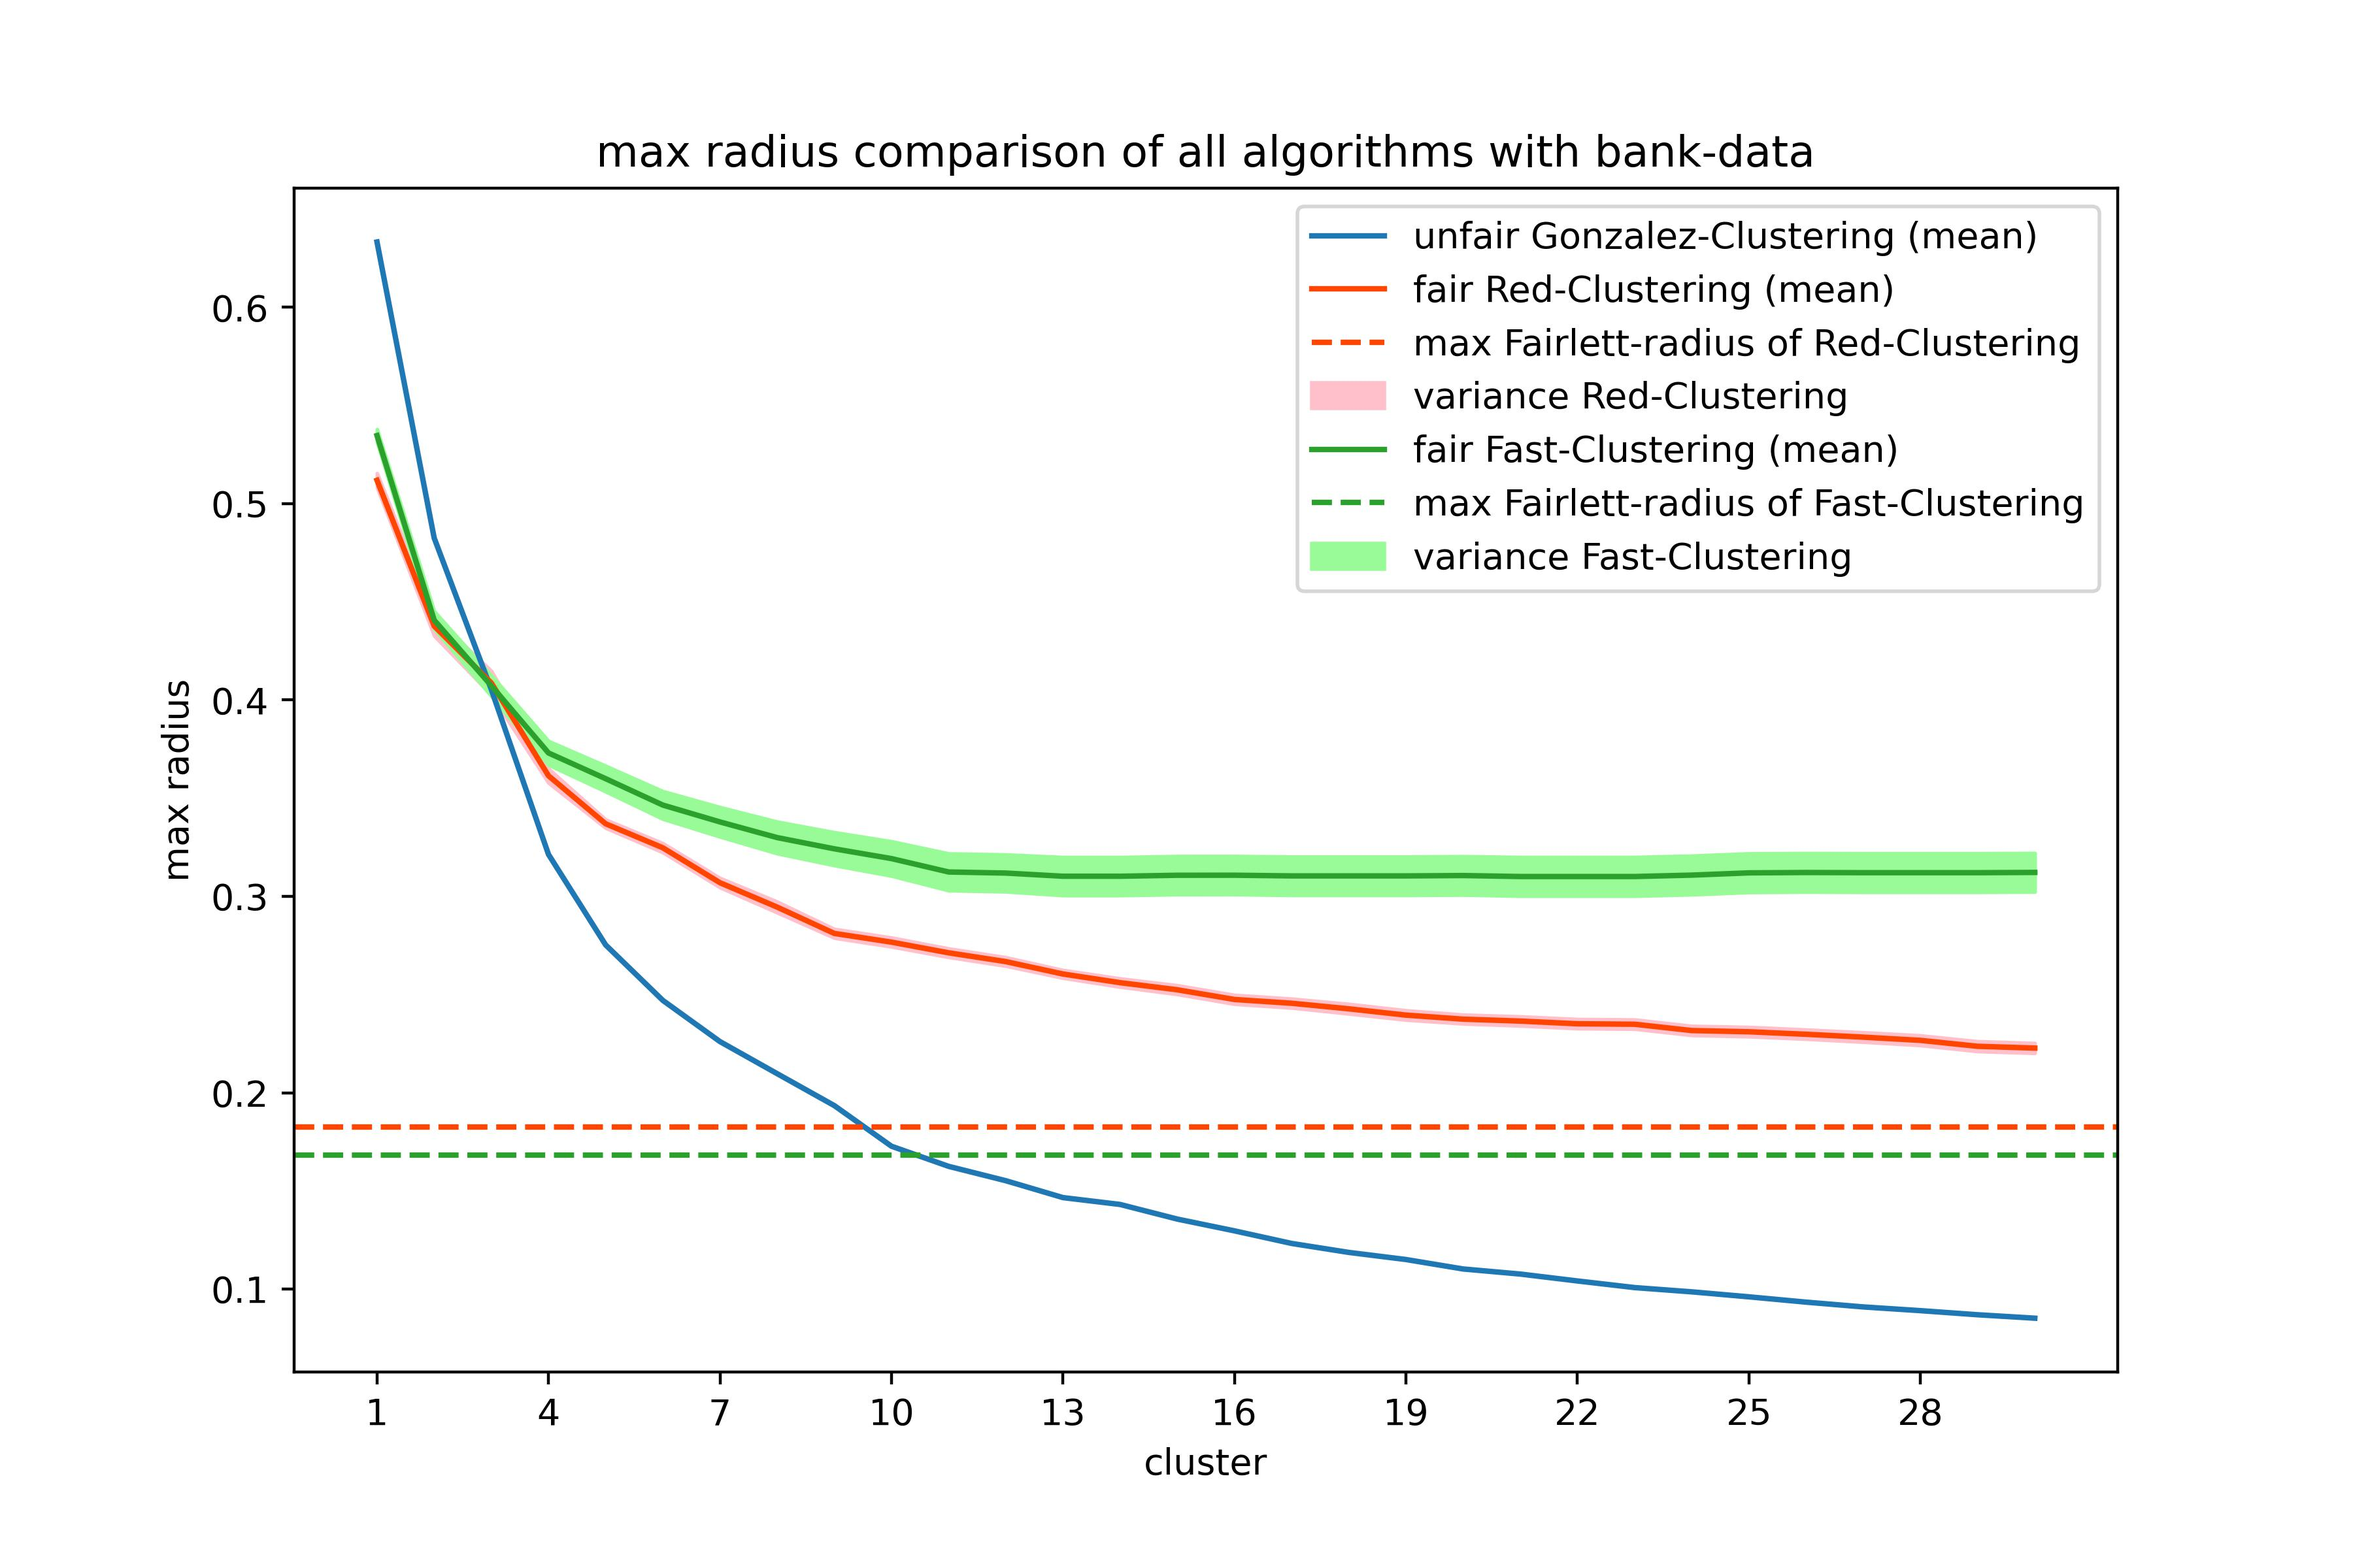
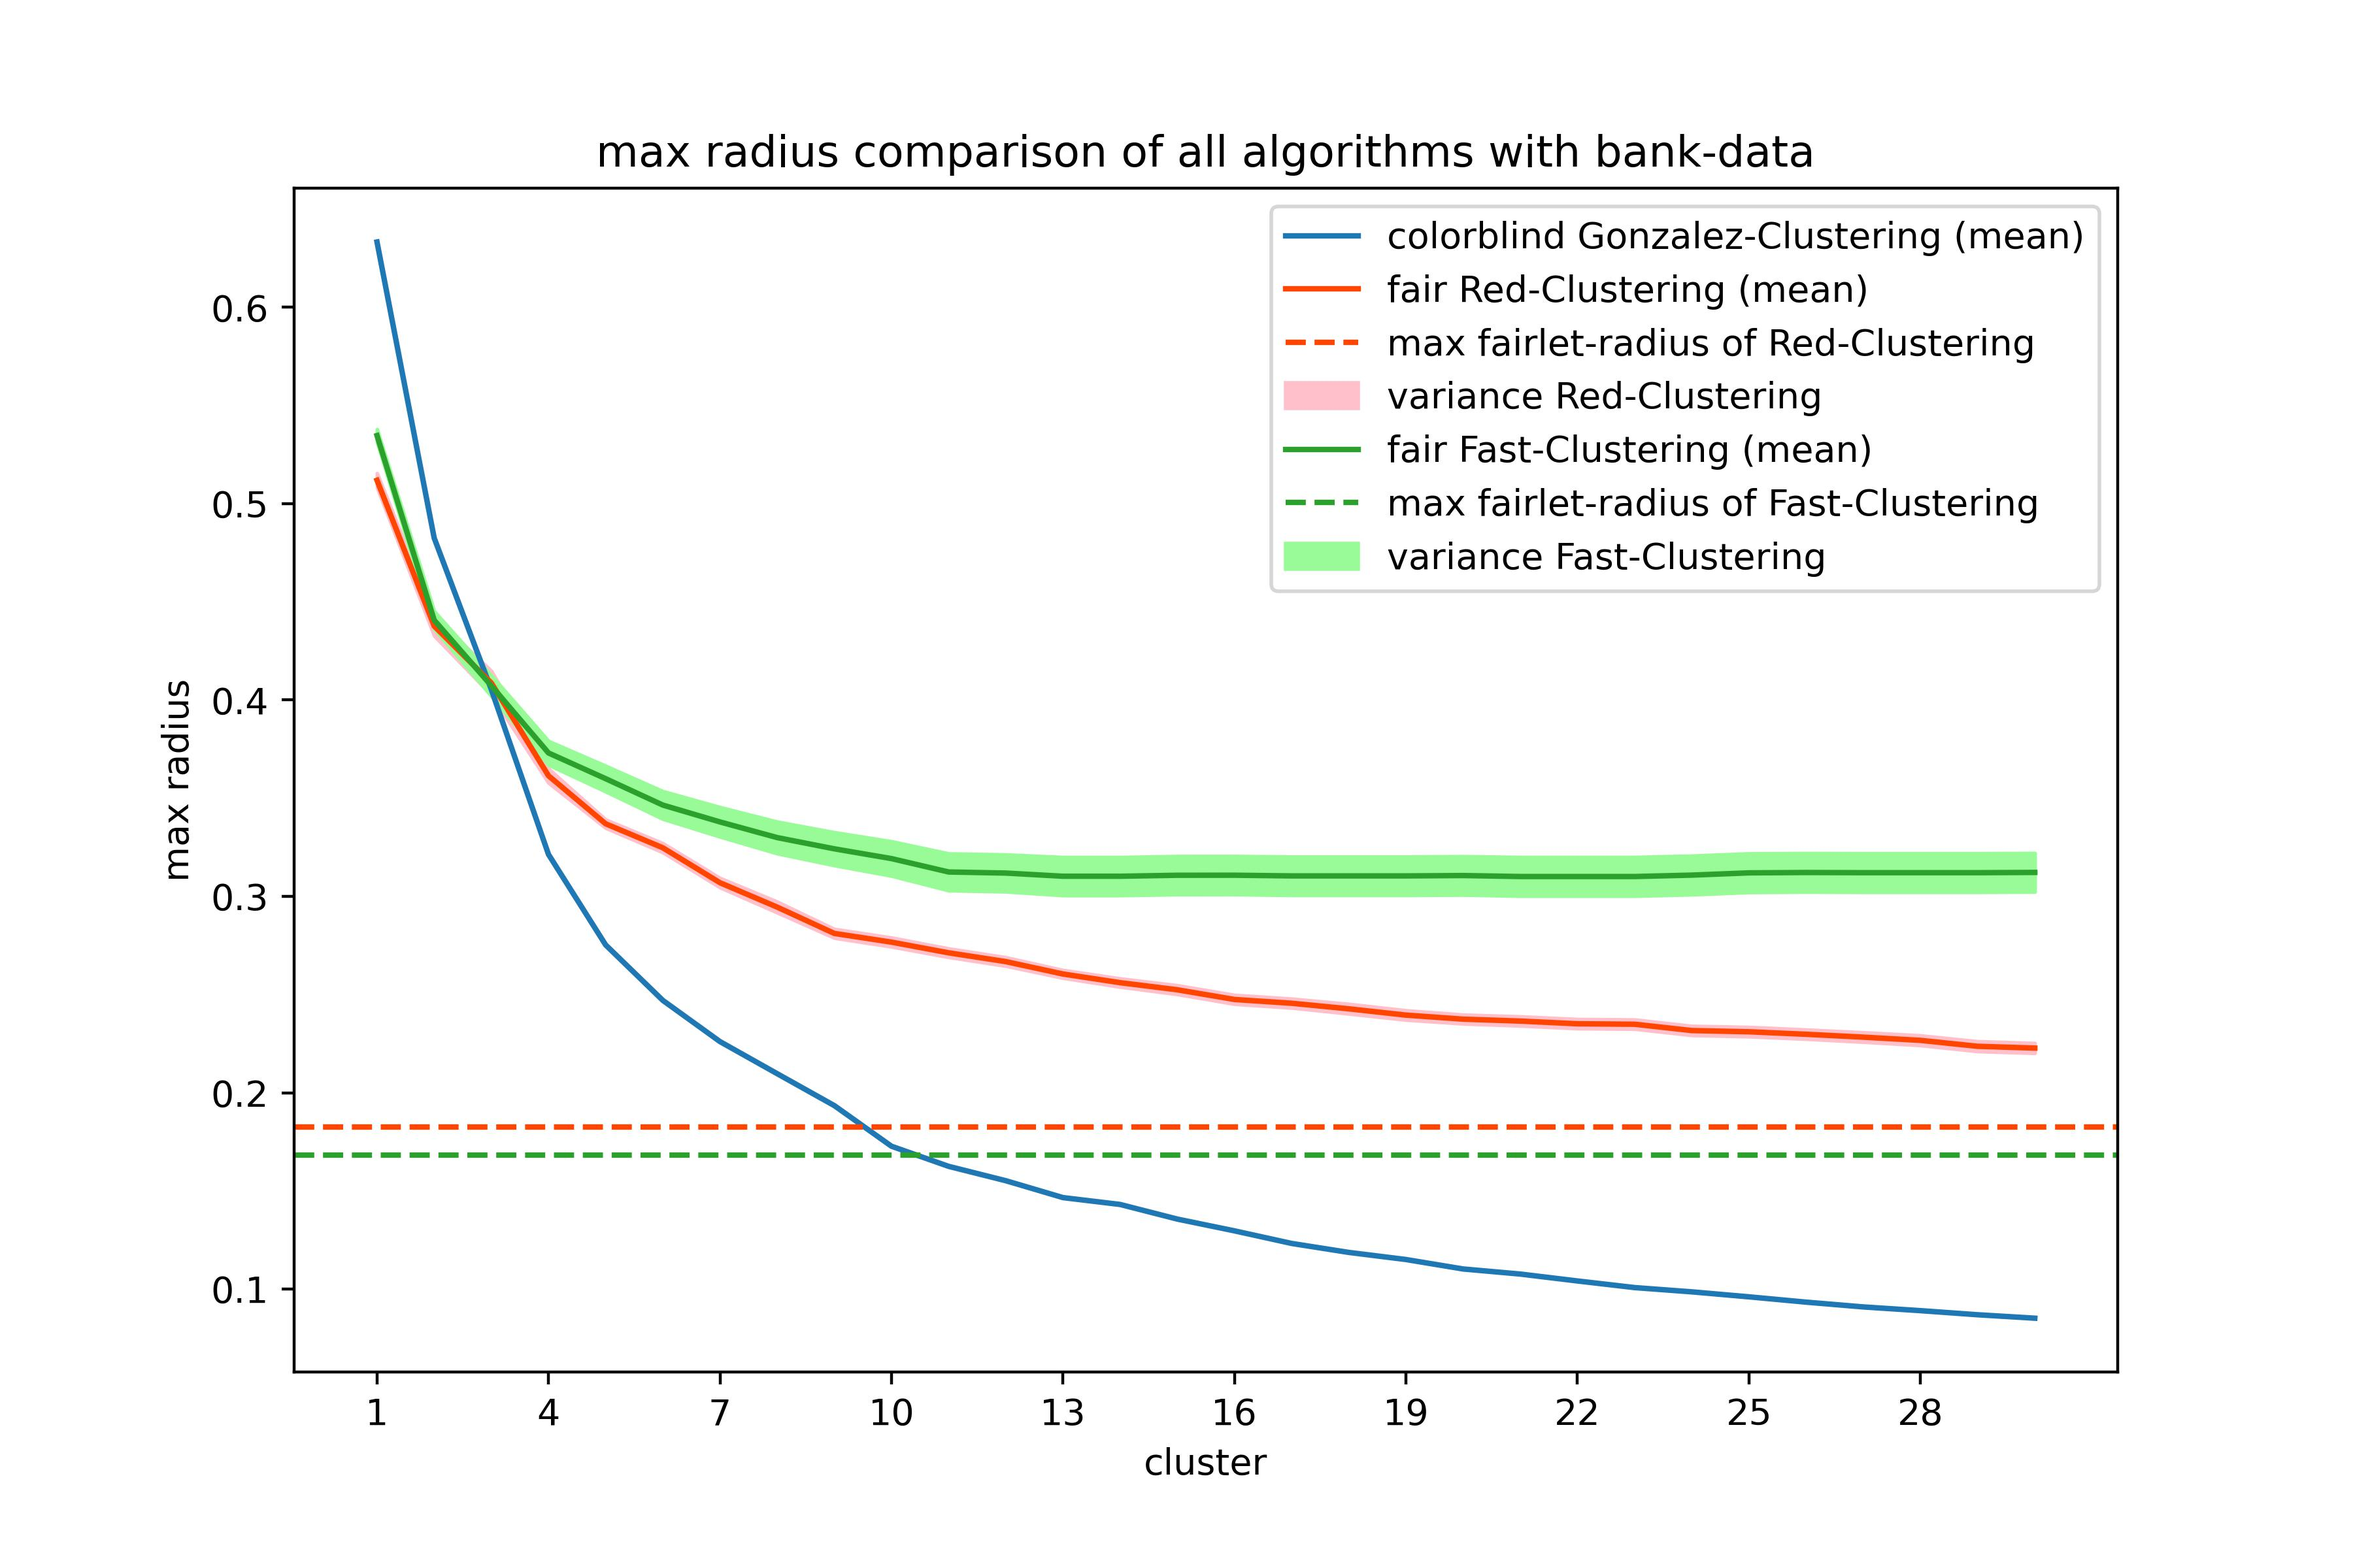
Latex - error correction in Pictures
In den Bildern waren noch ein paar Schreibfehler

Changed region(s): [[0.5289, 0.125, 0.8711, 0.375]]

diff --git a/Multicolor-Fair-Clusterin/Pythonskripte/DataAnalyzer.py b/Multicolor-Fair-Clusterin/Pythonskripte/DataAnalyzer.py
@@ -78,17 +78,17 @@ def do_analysis_of_sampleset(samplename, pictureFolder, dataFolder, axis=False, 
     
     # # # Einlesen der neuen Daten
     listOfRadiiLists = []
-    listOfFairlettRadius = []
+    listOffairletRadius = []
     for i in range(0, numOfSamples): 
         # Pfade algorithmisch zusammensetzen
         outputfolder = f"{dataFolder}{algPathAdd}/{samplename}/Sample{i}/"
         outputfile = f"{samplename}{i}"
         # Maximale Radien für jede Clustergröße holen
-        radiiList, fairlettRadius = get_radii_of_subsample(outputfolder, outputfile, maxCluster, algorithm=algorithm)
+        radiiList, fairletRadius = get_radii_of_subsample(outputfolder, outputfile, maxCluster, algorithm=algorithm)
         # radienverlauf hinszufügen
         listOfRadiiLists.append(radiiList)
-        # Fairlettgröße hinzufügen
-        listOfFairlettRadius.append(fairlettRadius)
+        # fairletgröße hinzufügen
+        listOffairletRadius.append(fairletRadius)
         
     
     
@@ -109,8 +109,8 @@ def do_analysis_of_sampleset(samplename, pictureFolder, dataFolder, axis=False, 
     
     
     
-    # Median des Fairlett-Radius bilden
-    fairRadiusMean = sum(listOfFairlettRadius) / len(listOfFairlettRadius)  
+    # Median des fairlet-Radius bilden
+    fairRadiusMean = sum(listOffairletRadius) / len(listOffairletRadius)  
     
     print(dfImportantValues.head(10))
     
@@ -123,7 +123,7 @@ def do_analysis_of_sampleset(samplename, pictureFolder, dataFolder, axis=False, 
                    f"{pictureFolder}/{algPathAdd}-{samplename}(Samples-{numOfSamples})(Cluster-{maxCluster}).jpg", 
                    f"{algPathAdd} - {samplename} k-center", algorithm=algorithm)
     else:
-        build_plot_axis(axis, dfImportantValues, fairlettRadiusMean=fairRadiusMean, algorithm=algorithm)
+        build_plot_axis(axis, dfImportantValues, fairletRadiusMean=fairRadiusMean, algorithm=algorithm)
         add_plot_variance(axis, dfImportantValues, algorithm=algorithm)
 
     return
@@ -141,9 +141,9 @@ def plot_single_dataset(dfRadius, picturePath, title, algorithm="g"):
     if(algorithm == "g"):
         # Unfaire Beschriftung
         ax.plot(dfRadius["clustersize"], dfRadius["mean"],
-                color = "brown", label = "unfair (mean)")
+                color = "brown", label = "colorblind (mean)")
         ax.plot(dfRadius["clustersize"], dfRadius[["maxValue", "minValue"]],
-                color = "orange", linestyle = "dashed", alpha = 0.5, label = "unfair (max/min)")
+                color = "orange", linestyle = "dashed", alpha = 0.5, label = "colorblind (max/min)")
     else:
         # Faire Beschriftung
         ax.plot(dfRadius["clustersize"], dfRadius["mean"],
@@ -168,7 +168,7 @@ def plot_single_dataset(dfRadius, picturePath, title, algorithm="g"):
 
 
 # # # Fügt einem gegebenen Graphen die Daten eines Algorithmuses hinzu # # #
-def build_plot_axis(axis, dfRadius, fairlettRadiusMean=0, algorithm="g"):
+def build_plot_axis(axis, dfRadius, fairletRadiusMean=0, algorithm="g"):
     # Wie weit ist der Abstand der x-Beschriftung
     intervalls = max(int(len(dfRadius)/10),1)
     
@@ -185,12 +185,12 @@ def build_plot_axis(axis, dfRadius, fairlettRadiusMean=0, algorithm="g"):
     if(algorithm == "g"):
         # Unfaire Beschriftung
         axis.plot(dfRadius["clustersize"], dfRadius["mean"],
-                color = algColor, label = f"unfair {algName} (mean)")
+                color = algColor, label = f"colorblind {algName} (mean)")
     else:
         # Faire Beschriftung
         axis.plot(dfRadius["clustersize"], dfRadius["mean"],
                  color = algColor, label = f"fair {algName} (mean)")
-        axis.axhline(y=fairlettRadiusMean, color = algColor, linestyle='--', label=f"max Fairlett-radius of {algName}")
+        axis.axhline(y=fairletRadiusMean, color = algColor, linestyle='--', label=f"max fairlet-radius of {algName}")
 
     
     axis.set_xticks(list(range(1, len(dfRadius) + 1, intervalls)))
@@ -237,14 +237,14 @@ def get_radii_of_subsample(outputfolder, outputfile, maxCluster, algorithm="g"):
         # nur die Radien auslesen mit Hilfsmethode
         if(algorithm == "g"):
             _, maxClusterRadius = Points.read_points(filename)
-            maxFairlettRadius = 0 # Nur der Fall, wenn keine Fairletts gebildet werden
+            maxfairletRadius = 0 # Nur der Fall, wenn keine fairlets gebildet werden
         else:
-            _, maxClusterRadius, maxFairlettRadius = Points.read_fair_points(filename)
+            _, maxClusterRadius, maxfairletRadius = Points.read_fair_points(filename)
         # Anfügen des einen Radius
         radiiList.append(maxClusterRadius)
 
-    #print(f"Der Fairlettradius der eingelesen wurde ist: {maxFairlettRadius}")
-    return radiiList, maxFairlettRadius
+    #print(f"Der fairletradius der eingelesen wurde ist: {maxfairletRadius}")
+    return radiiList, maxfairletRadius
 
 
 
@@ -325,7 +325,7 @@ def analyze_times(timestamps, picturePath, labels, algorithm="g"):
 
     ax.set_xticks(list(range(0, len(timestamps[0]) + 1, intervalls)))
     ax.set_title(f"CPU times of {algorithmName} excecution")
-    ax.set_xlabel("cample")
+    ax.set_xlabel("sample")
     ax.set_ylabel("time in ms")
     ax.legend(loc='upper right')
     plt.savefig(picturePath + f"/Timinganalysis {algorithmName}.jpg", dpi=400)
@@ -407,17 +407,17 @@ def fast_anchor_maxline_analysis(samplename, pictureFolder, dataFolder, numOfSam
     
     # # # Einlesen der neuen Daten
     listOfRadiiLists = []
-    listOfFairlettsizes = []
+    listOffairletsizes = []
     for i in range(0, numOfSamples): 
         # Pfade algorithmisch zusammensetzen
         outputfolder = f"{dataFolder}{algPathAdd}/{samplename}/Sample{i}"
         outputfile = f"{samplename}{i}"
         # Maximale Radien für jede Clustergröße holen
-        radiiList, fairlettRadius = get_radii_of_subsample(outputfolder, outputfile, maxCluster, algorithm="f")
+        radiiList, fairletRadius = get_radii_of_subsample(outputfolder, outputfile, maxCluster, algorithm="f")
         # radienverlauf hinszufügen
         listOfRadiiLists.append(radiiList)
-        # fairlettRadius hinzufügen
-        listOfFairlettsizes.append(fairlettRadius)
+        # fairletRadius hinzufügen
+        listOffairletsizes.append(fairletRadius)
         
     
     
@@ -439,13 +439,13 @@ def fast_anchor_maxline_analysis(samplename, pictureFolder, dataFolder, numOfSam
     os.makedirs(pictureFolder, exist_ok=True) 
     print_radii(dfImportantValues,  
                 f"{pictureFolder}/Fast-Anchor Edge-Case.jpg", 
-                "Fast-Clustering census Edge-Case Example", algorithm="f", fairlettRadius=np.mean(fairlettRadius))
+                "fast-clustering census edge-case example", algorithm="f", fairletRadius=np.mean(fairletRadius))
 
     return
 
 
 # # # Plot für einzelnen Algorithmus # # #
-def print_radii(dfRadius, picturePath, title, algorithm="f", fairlettRadius=-1):
+def print_radii(dfRadius, picturePath, title, algorithm="f", fairletRadius=-1):
     
     # Zusammensetzen der Beschriftung
     algorithmName = "Gonzalez-Algorithm"
@@ -464,9 +464,9 @@ def print_radii(dfRadius, picturePath, title, algorithm="f", fairlettRadius=-1):
     if(algorithm == "g"):
         # Unfaire Beschriftung
         ax.plot(dfRadius["clustersize"], dfRadius["mean"],
-                color = "brown", label = "unfair (mean)")
+                color = "brown", label = "colorblind (mean)")
         ax.plot(dfRadius["clustersize"], dfRadius[["maxValue", "minValue"]],
-                color = "orange", linestyle = "dashed", alpha = 0.5, label = "unfair (max/min)")
+                color = "orange", linestyle = "dashed", alpha = 0.5, label = "colorblind (max/min)")
     else:
         # Faire Beschriftung
         ax.plot(dfRadius["clustersize"], dfRadius["mean"],
@@ -475,8 +475,8 @@ def print_radii(dfRadius, picturePath, title, algorithm="f", fairlettRadius=-1):
                 color = "red", linestyle = "dashed", alpha = 0.5, label = "max radius (max)")
         ax.plot(dfRadius["clustersize"], dfRadius["minValue"],
                 color = "green", linestyle = "dashed", alpha = 0.5, label = "max radius (min)")
-        if (fairlettRadius >= 0):
-            ax.axhline(y=fairlettRadius, linestyle='--', label="mean Fairlett-radus")
+        if (fairletRadius >= 0):
+            ax.axhline(y=fairletRadius, linestyle='--', label="mean fairlet-radus")
     
 
     ax.set_xticks(list(range(1, len(dfRadius) + 1, intervalls)))

diff --git a/Latex/experimentsPipeline.tex b/Latex/experimentsPipeline.tex
@@ -62,8 +62,8 @@
 
             \begin{figure}
                 \centering
-                \includegraphics[width=(\textwidth)]{fig/Min-Cost-Try/Comparison Joined.jpg}
-                \caption{Unterschied in den Radiuskosten der Cluster zwischen Fairlettbildung mit einfachen Max-Flow und Min-Cost-Flow bei Fast-Anchor-Clustering}
+                \includegraphics[width=(\textwidth)]{fig/Min-Cost-Try/Comparison Joined Caption.jpg}
+                \caption{Unterschied in den Radiuskosten der Cluster zwischen Fairletbildung mit einfachen Max-Flow und Min-Cost-Flow bei Fast-Anchor-Clustering}
                 \label{fig:Min-Cost-Flow_comparison}
             \end{figure}
 
